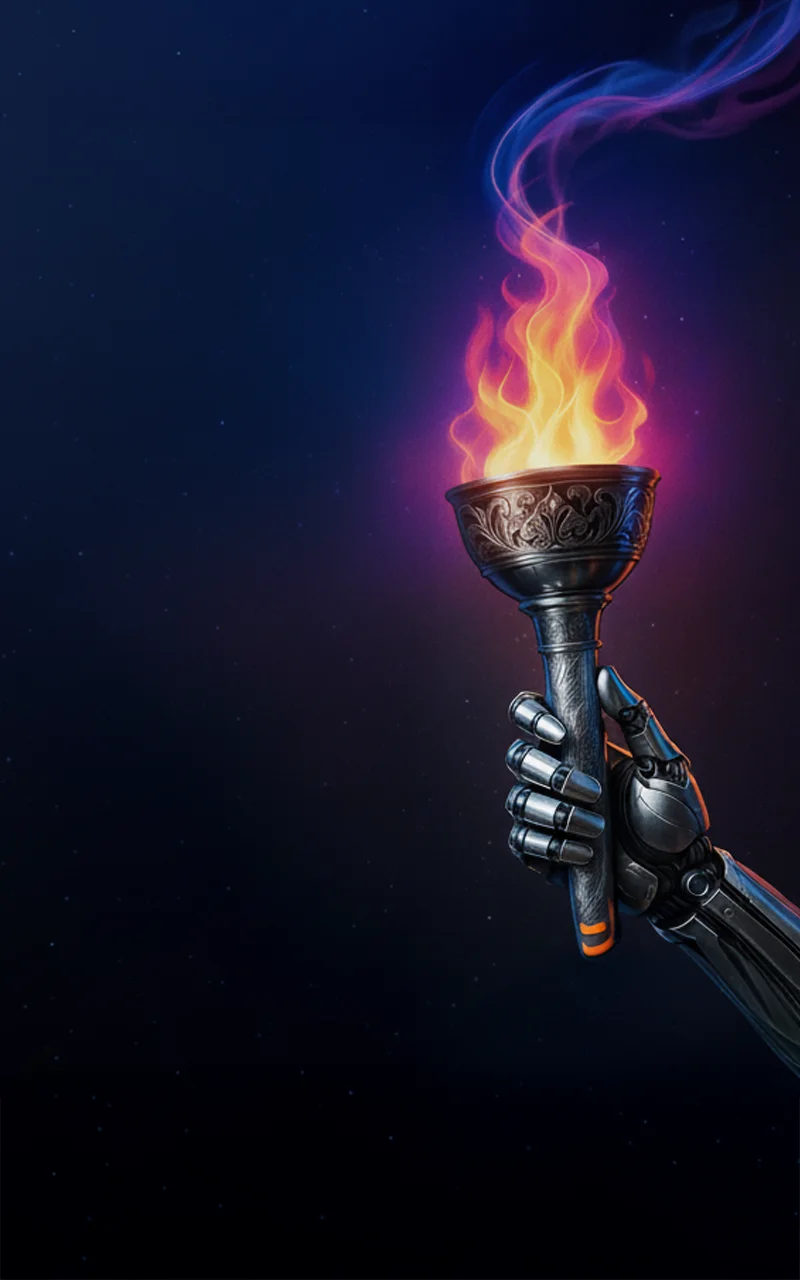
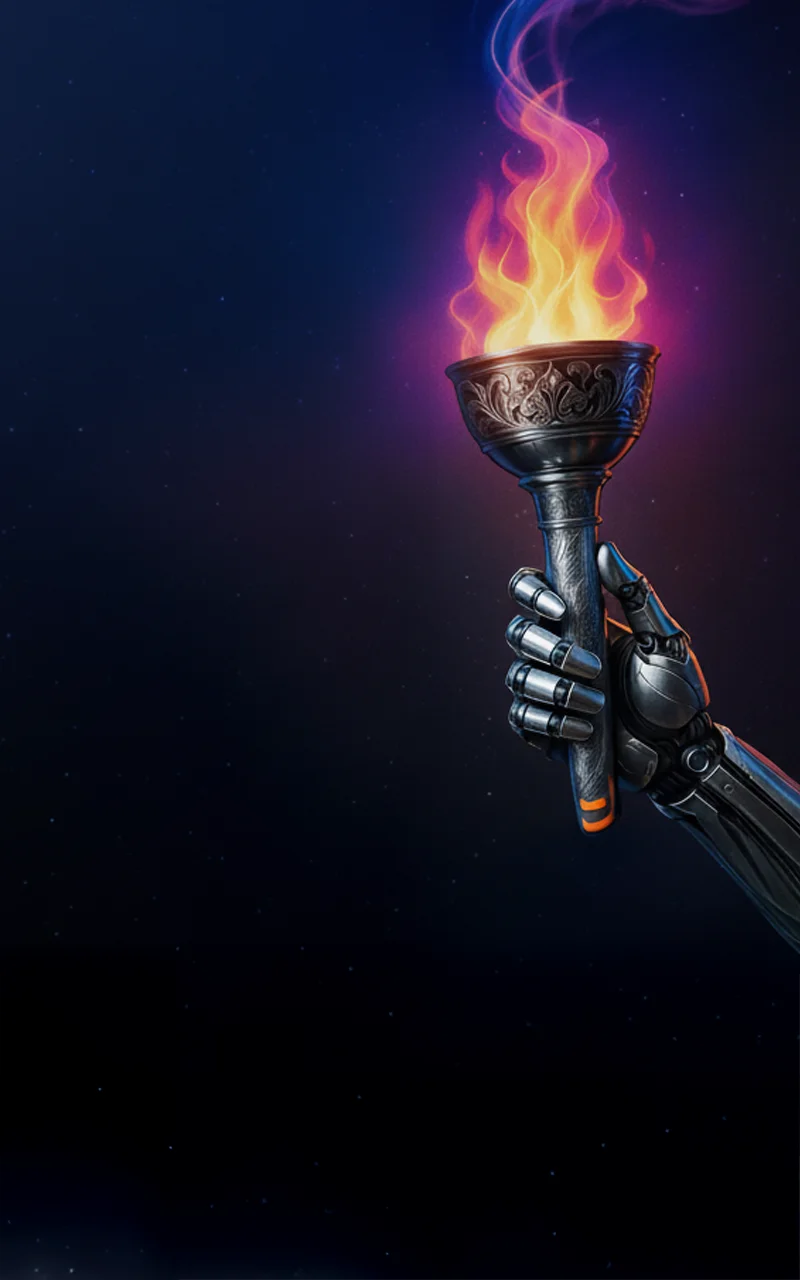
style(home): sesuaikan jarak hero & lebar headline
HomepageSection: tingkatkan lg:pr-48, atur lebar headline w-[30vh] md:w-[40vh] lg:w-[50vh]; align konten kanan ke items-start + text-left; naikkan padding kiri lg:pl-48; wrapper row pakai items-start untuk posisi vertikal.

Rasional: seimbangkan komposisi kiri (headline) dan kanan (teks/CTA) di tablet/desktop untuk readability.

Changed region(s): [[0.4375, 0.0, 1.0, 0.8438], [0.0, 0.9688, 0.1875, 1.0]]

diff --git a/src/components/homepage/homepage-section.tsx b/src/components/homepage/homepage-section.tsx
@@ -35,11 +35,11 @@ const Hero47 = () => {
 
   return (
     <section className="relative w-full h-full flex items-start lg:items-center justify-center">
-      <div className="w-full max-w-screen-2xl mx-auto px-4 sm:px-6 lg:px-8 flex flex-col lg:flex-row items-start lg:items-stretch h-full gap-8 lg:gap-16">
+      <div className="w-full max-w-screen-2xl mx-auto px-4 lg:px-8 flex flex-col lg:flex-row items-start lg:items-stretch h-full gap-8 lg:gap-16">
 
         {/* Left Section (50%) - SVG Headline */}
-        <div className="lg:w-1/2 flex justify-start lg:justify-end items-center lg:items-center lg:pr-16 pt-8 lg:pt-0">
-          <div className={`w-[35vh] md:w-[40vh]  relative w-full lg:w-[50vh] flex-shrink-0 transition-all duration-700 ease-out transform-gpu ${animationClasses.svg}`}>
+        <div className="lg:w-1/2 flex justify-start lg:justify-end items-center lg:items-center lg:pr-48 pt-8 lg:pt-0">
+          <div className={`w-[30vh] md:w-[40vh] px-4 relative lg:w-[50vh] flex-shrink-0 transition-all duration-700 ease-out transform-gpu ${animationClasses.svg}`}>
             {/* Spacer Image - Invisible but sets the size correctly */}
             <Image
               src="/images/home-hero/off-the-grid-headline.svg"
@@ -56,10 +56,10 @@ const Hero47 = () => {
         </div>
 
         {/* Right Section (50%) - Content */}
-        <div className="w-full lg:w-1/2 flex flex-col items-start lg:justify-center text-left gap-10 lg:gap-10 px-4 lg:px-0 pt-2 pb-4 lg:pb-0 lg:pt-0">
+        <div className="w-full lg:w-1/2 flex flex-col items-start lg:justify-center text-left gap-10 lg:gap-10 px-4 lg:px-0 pt-16 pb-4 lg:pb-0 lg:pt-0">
 
           {/* Combined Content Block */}
-          <div className={`flex flex-col gap-10 lg:gap-8 w-full lg:w-[80%] lg:pl-24 transition-all duration-700 ease-out delay-100 ${animationClasses.text}`}>
+          <div className={`flex flex-col gap-10 lg:gap-8 w-full lg:pl-48 transition-all duration-700 ease-out delay-100 ${animationClasses.text}`}>
             <div className="flex flex-col gap-2">
               {/* Mobile Text (Shortened) */}
               <div className="block md:hidden">

diff --git a/src/app/page.tsx b/src/app/page.tsx
@@ -7,7 +7,7 @@ export default function HomePage() {
     <div className="relative isolate flex flex-col md:overflow-hidden lg:overflow-hidden bg-black min-h-dvh md:h-dvh lg:h-dvh [&_*]:focus:outline-none [&_*]:focus-visible:outline-none [&_*]:focus-visible:ring-0 [&_*]:focus-visible:ring-offset-0">
       {/* Background Image - covers full viewport */}
       <div
-        className="pointer-events-none absolute inset-0 z-0 bg-[url('/images/home-hero/dark-hero-home-mobile.webp')] md:bg-[url('/images/home-hero/dark-hero-home-tablet.webp')] lg:bg-[url('/images/home-hero/dark-hero-home.webp')] bg-cover bg-center"
+        className="pointer-events-none fixed inset-0 z-0 bg-[url('/images/home-hero/dark-hero-home-mobile.webp')] md:bg-[url('/images/home-hero/dark-hero-home-tablet.webp')] lg:bg-[url('/images/home-hero/dark-hero-home.webp')] bg-cover bg-center"
         aria-hidden="true"
       />
 
